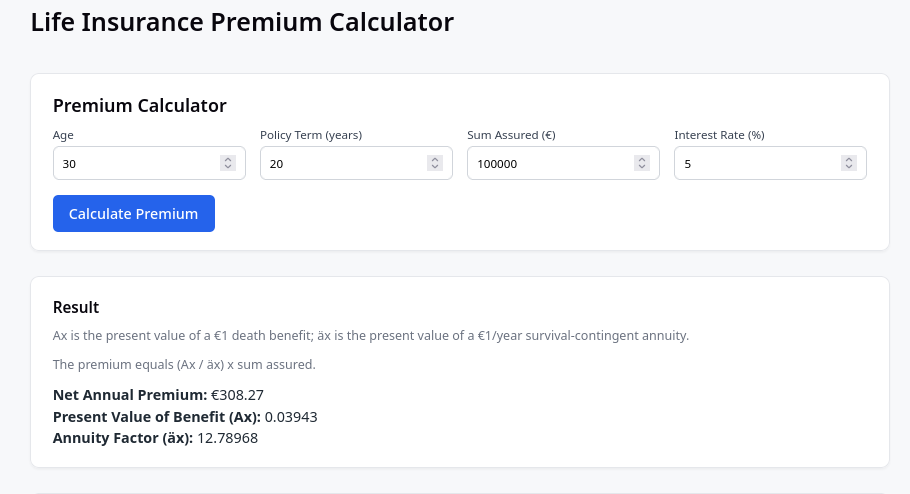
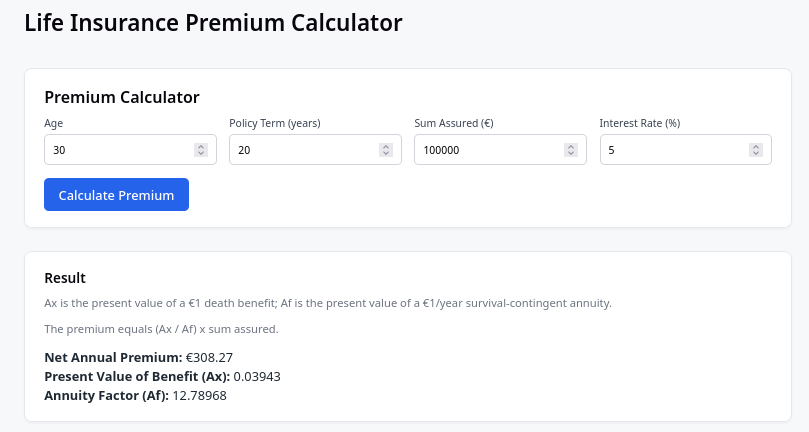
replaced annuity factor variable

diff --git a/backend/src/premium/premium.service.ts b/backend/src/premium/premium.service.ts
@@ -31,10 +31,10 @@ export class PremiumService {
   }
 
   /**
-   * Calculate äx — present value of an annuity-due of €1/year
+   * Calculate Af — present value of an annuity-due of €1/year
    * for n years on a life aged x.
    *
-   * Formula: äx = Σ (t=0 to n-1) v^t * tPx
+   * Formula: Af = Σ (t=0 to n-1) v^t * tPx
    */
   calculateAnnuityDue(age: number, term: number, interestRate: number): number {
     const v = 1 / (1 + interestRate);
@@ -52,7 +52,7 @@ export class PremiumService {
   /**
    * Calculate the net level annual premium.
    *
-   * Premium = (Ax / äx) × Sum Assured
+   * Premium = (Ax / Af) × Sum Assured
    */
   calculateNetPremium(
     age: number,

diff --git a/frontend/src/components/PremiumResult.tsx b/frontend/src/components/PremiumResult.tsx
@@ -12,14 +12,14 @@ export function PremiumResult({ result }: Props) {
     <div className="card">
       <h3>Result</h3>
       <p className="section-hint">
-        Ax is the present value of a €1 death benefit; äx is the present value of a €1/year survival-contingent annuity.
+        Ax is the present value of a €1 death benefit; Af is the present value of a €1/year survival-contingent annuity.
       </p>
       <p className="section-hint">
-         The premium equals (Ax / äx) x sum assured.
+         The premium equals (Ax / Af) x sum assured.
       </p>
       <p><strong>Net Annual Premium:</strong> €{result.netAnnualPremium.toLocaleString()}</p>
       <p><strong>Present Value of Benefit (Ax):</strong> {result.ax.toFixed(5)}</p>
-      <p><strong>Annuity Factor (äx):</strong> {result.annuityDue.toFixed(5)}</p>
+      <p><strong>Annuity Factor (Af):</strong> {result.annuityDue.toFixed(5)}</p>
     </div>
   );
 }

diff --git a/README.md b/README.md
@@ -65,8 +65,8 @@ Open <http://localhost:5173>. The premium and sensitivity charts work without th
 | **qx** | Probability that a person aged x dies before reaching age x+1. |
 | **lx** | Number of survivors at age x out of an initial cohort (100,000). |
 | **Ax** | Net single premium — present value of a €1 death benefit over an n-year term. |
-| **äx** | Annuity-due — present value of a €1/year survival-contingent annuity. |
-| **Net level premium** | P = (Ax / äx) × Sum Assured. Annual premium that makes the policy actuarially fair. |
+| **Af** | Annuity-due — present value of a €1/year survival-contingent annuity. |
+| **Net level premium** | P = (Ax / Af) × Sum Assured. Annual premium that makes the policy actuarially fair. |
 
 Mortality data is the US SSA period life table (both sexes, kept side-by-side in `data/american-life-table.csv`); the backend loader accepts either that wide schema or the standard `age,qx,lx,dx,ex` form.
 